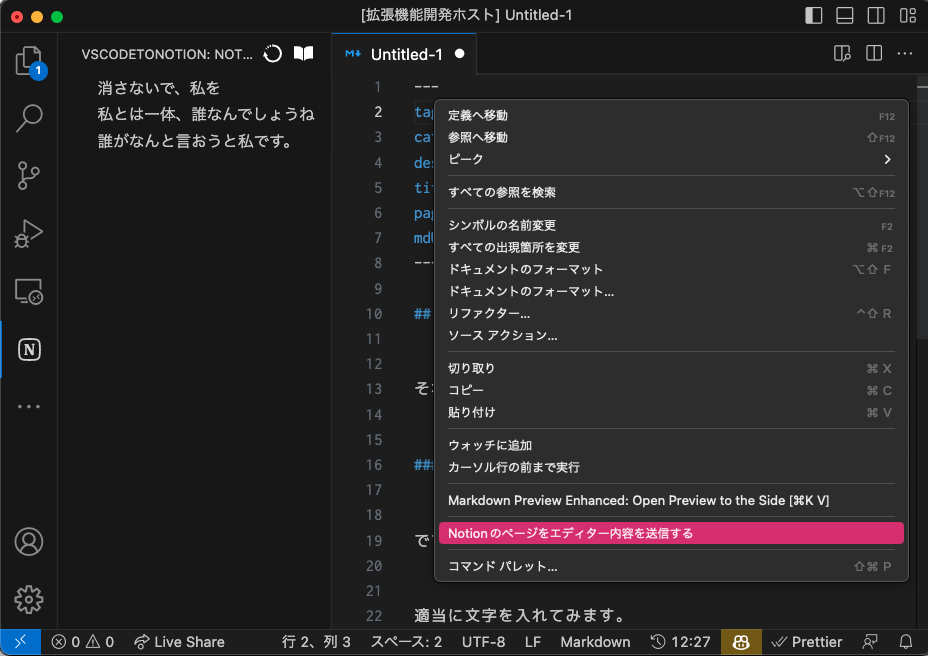
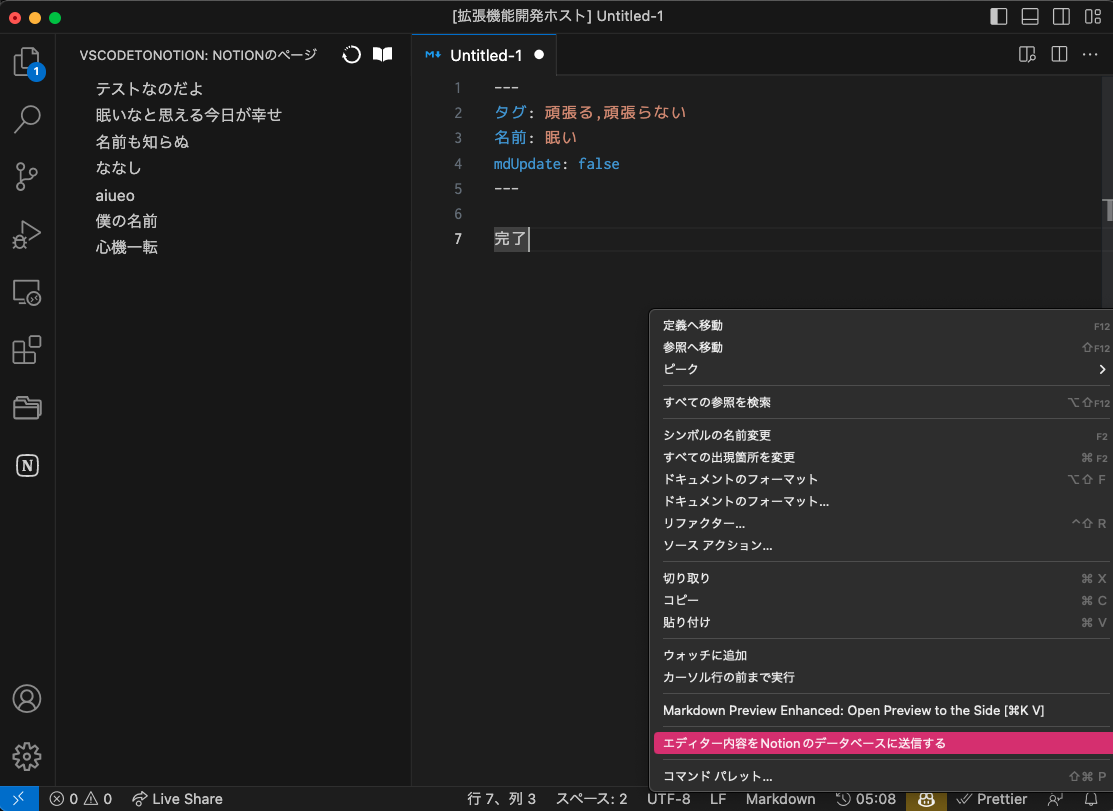
拡張機能の説明

diff --git a/README.md b/README.md
@@ -1,71 +1,86 @@
-# vscodetonotion README
+# VSCodeToNotionとは？
 
-This is the README for your extension "vscodetonotion". After writing up a brief description, we recommend including the following sections.
+> 現在、開発途中のVScodeの拡張機能です。
 
-## Features
+このプラグインは、VSCodeからNotionAPIを通して、新規投稿、編集、削除をするプラグインです。
 
-Describe specific features of your extension including screenshots of your extension in action. Image paths are relative to this README file.
+\!\[vscodetonotionのスクリーンショット画像\]\(resources/vscodetonotion.png\)
 
-For example if there is an image subfolder under your extension project workspace:
+## 使い方
 
-\!\[feature X\]\(images/feature-x.png\)
+まず、準備として、新規作成のデータベースを用意し、NotionAPIキーの取得と、ページIDを取得しましょう。
 
-> Tip: Many popular extensions utilize animations. This is an excellent way to show off your extension! We recommend short, focused animations that are easy to follow.
+サンプルの [データベース](https://naomina.notion.site/b468c12581124c8188821523a18f24ad?v=796a38918d3d47068091f1c540f4d5d5)をご用意しました。動作確認に複製してご自由にお使いください。
 
-## Requirements
+1. [Notion Developer Portal](https://www.notion.com/my-integrations)にアクセスし、新しいインテグレーションを作成します。
+2. インテグレーションを作成したら、NotionAPIキーを取得します。（大切な情報なので厳重に保管してください）
+3. 先ほど複製したNotionのページにアクセスし、右上の三点リーダーをクリックしインテグレーションをコネクトの追加から追加します。（インテグレーションが反映されるまでに時間がかかる場合もあります。）
+4. ページIDを取得するには、ページの共有からリンクをコピーします。「https://notion.so/(NotionPageID)/?v=ランダム文字列」
 
-If you have any requirements or dependencies, add a section describing those and how to install and configure them.
+次に、拡張機能を有効にしたら、サイドバーにNotionのアイコンが追加されるので「設定画面を開く」から先ほど設定した取得したNotionAPIキーとページIDをそれぞれ設定してください。
 
-## Extension Settings
+\!\[設定画面の説明\]\(resources/setting.png\)
 
-Include if your extension adds any VS Code settings through the `contributes.configuration` extension point.
+その次に、「Notionのページ一覧を開く」を選択すると下記のような画面になります。
 
-For example:
+\!\[設定画面の説明\]\(resources/pages.png\)
 
-This extension contributes the following settings:
+左側がNotionのデータベースを読み込んだ状態になります。
 
-* `myExtension.enable`: Enable/disable this extension.
-* `myExtension.thing`: Set to `blah` to do something.
+\!\[項目にフォーカスした時の説明\]\(resources/edit.png\)
 
-## Known Issues
+左側の項目にフォーカスすると、鉛筆マークが出ますが、これは、Notionにページを更新したい時に使用します。
+ゴミ箱マークは削除です。
 
-Calling out known issues can help limit users opening duplicate issues against your extension.
+右上のノートのマークは、新規でNotionに投稿したいときに使います。
+
+更新や新規でデータを投稿する時、エディタが立ち上がりますが、保存をしなくてもデータは送信ができます。
+
+### データを送信したい時
+
+エディタで編集を終えたら、エディタ画面で右クリックを押します。
+すると下記のようになります。
+
+\!\[データ送信\]\(resources/update.png\)
+
+「エディター内容をNotionのデータベースに送信する」を選択するとデータベースにデータが送信されます。
+
+
+## 注意事項
+
+\!\[メタ情報\]\(resources/meta.png\)
+
+エディタで編集する時に、上記のように、`---`で囲まれている箇所がありますが、こちらはメタ情報として使用しています。
+
+`pageID`や`mdUpdate`の情報は更新するときに使用しています。
+
+削除してしまうと更新ができなくなってしまうため削除なさらないようにお願いします。
+
+**ページのタイトル属性に関しては、新規で作成する際は必ず名前をつけてください。**
+
+タイトルがない場合は、新規投稿ができません。
+
+新規投稿画面に関しては、データベースに設定したプロパティをメタ情報に設定していますが、空白でも大丈夫です。
+
+メタ情報のプロパティの中には、Notionでご使用されている関数などに応じて反映させるためには空白である必要があります。
+
+新規投稿する際にエディタからメタ情報が適切に取れてない場合は、更新ボタンを押して開き直してみたりすると直ります。
 
 ## Release Notes
 
-Users appreciate release notes as you update your extension.
+### "0.0.1
 
-### 1.0.0
-
-Initial release of ...
-
-### 1.0.1
-
-Fixed issue #.
-
-### 1.1.0
-
-Added features X, Y, and Z.
-
+   - カスタムプロパティにて新規投稿、更新できるように調整 (2023/5/6)
+  
 ---
 
-## Following extension guidelines
+## 参考サイトやお借りした素材サイト
 
-Ensure that you've read through the extensions guidelines and follow the best practices for creating your extension.
+* [ICONS8](https://icons8.jp)
+* [Markdownで書いたノートをNotionのデータベースに移行する](https://zenn.dev/cizneeh/articles/markdown-to-notion-db)
+* [VSCode Extensions(拡張機能) 自作入門 〜VSCodeにおみくじ機能を追加する〜](https://qiita.com/HelloRusk/items/073b58c1605de224e67e)
+* [gray-matter](https://www.npmjs.com/package/gray-matter#optionslanguage)
+* [@tryfabric/martian]([@tryfabric/martian](https://www.npmjs.com/package/@tryfabric/martian))
+* [notion-to-md](https://www.npmjs.com/package/notion-to-md)
 
-* [Extension Guidelines](https://code.visualstudio.com/api/references/extension-guidelines)
-
-## Working with Markdown
-
-You can author your README using Visual Studio Code. Here are some useful editor keyboard shortcuts:
-
-* Split the editor (`Cmd+\` on macOS or `Ctrl+\` on Windows and Linux).
-* Toggle preview (`Shift+Cmd+V` on macOS or `Shift+Ctrl+V` on Windows and Linux).
-* Press `Ctrl+Space` (Windows, Linux, macOS) to see a list of Markdown snippets.
-
-## For more information
-
-* [Visual Studio Code's Markdown Support](http://code.visualstudio.com/docs/languages/markdown)
-* [Markdown Syntax Reference](https://help.github.com/articles/markdown-basics/)
-
-**Enjoy!**
+**Thanks!**
